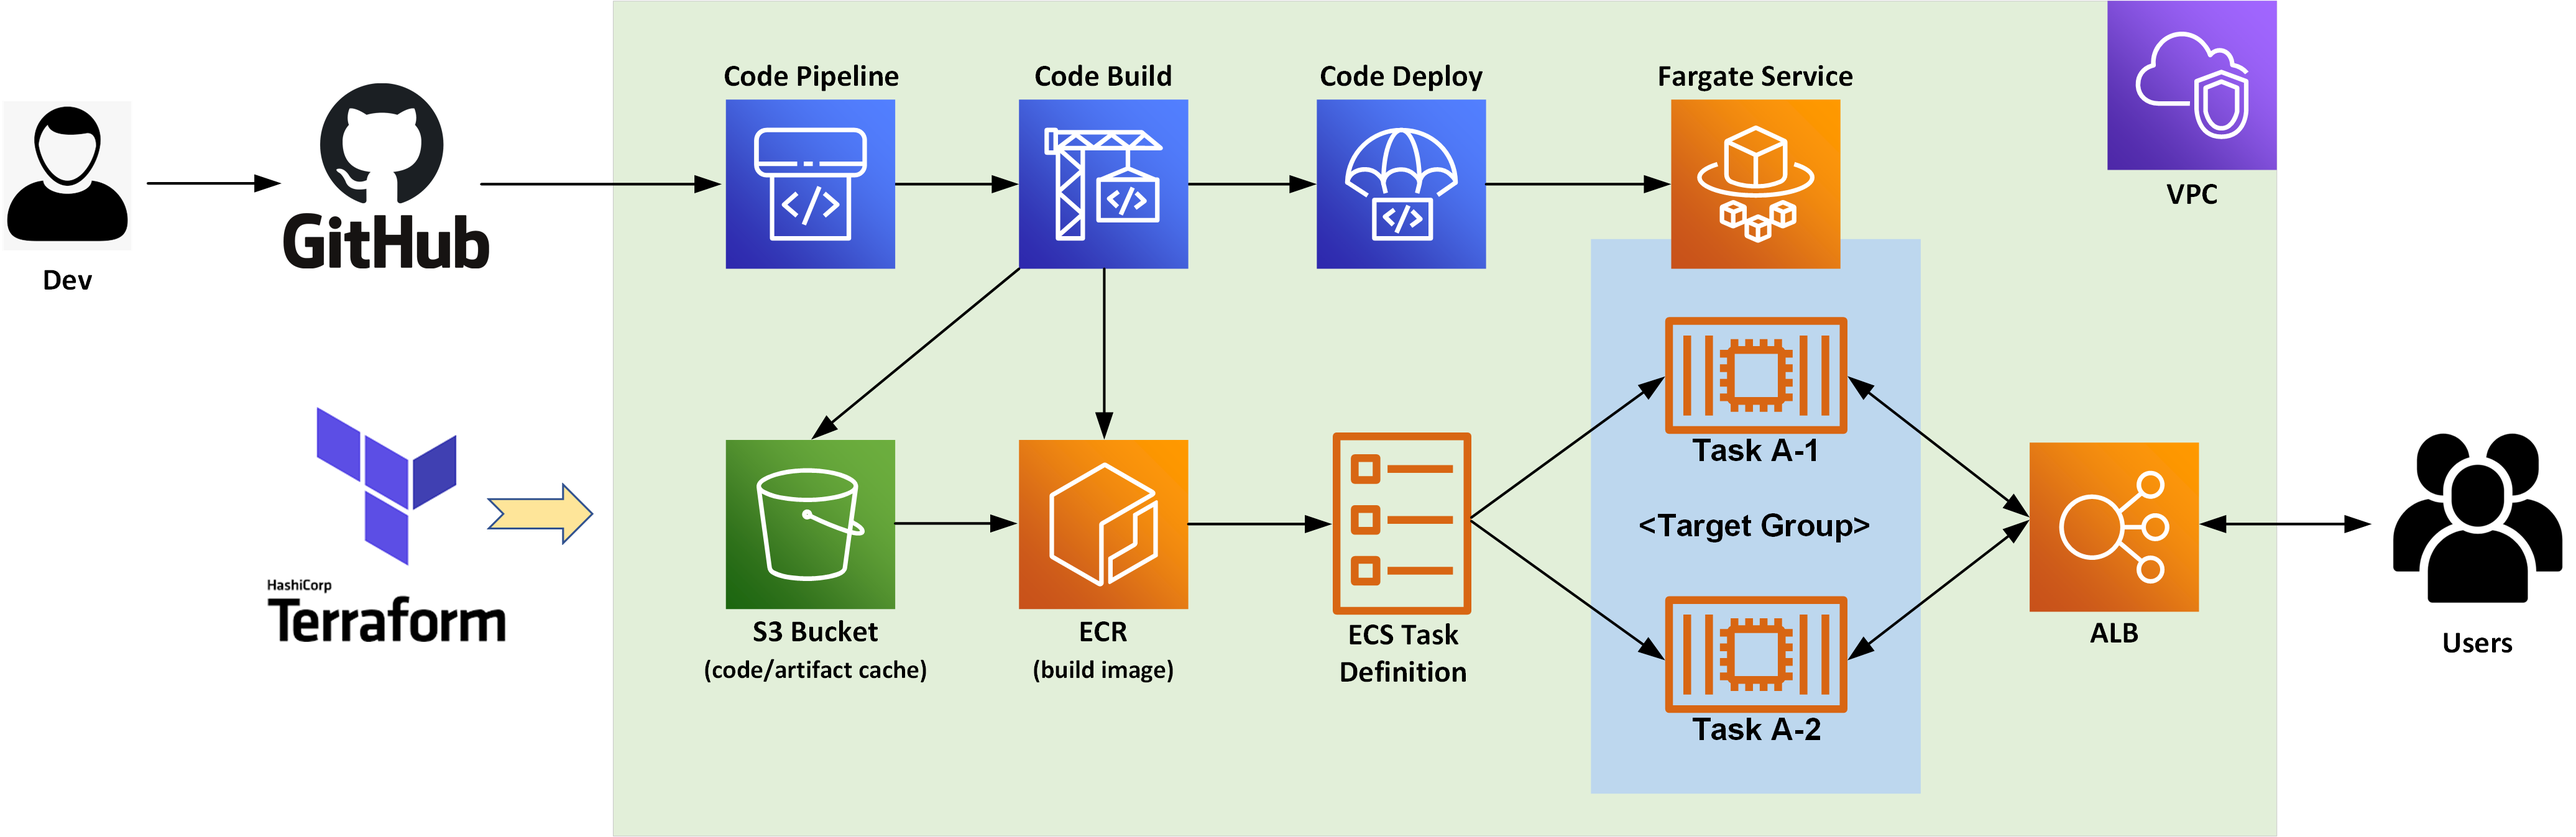
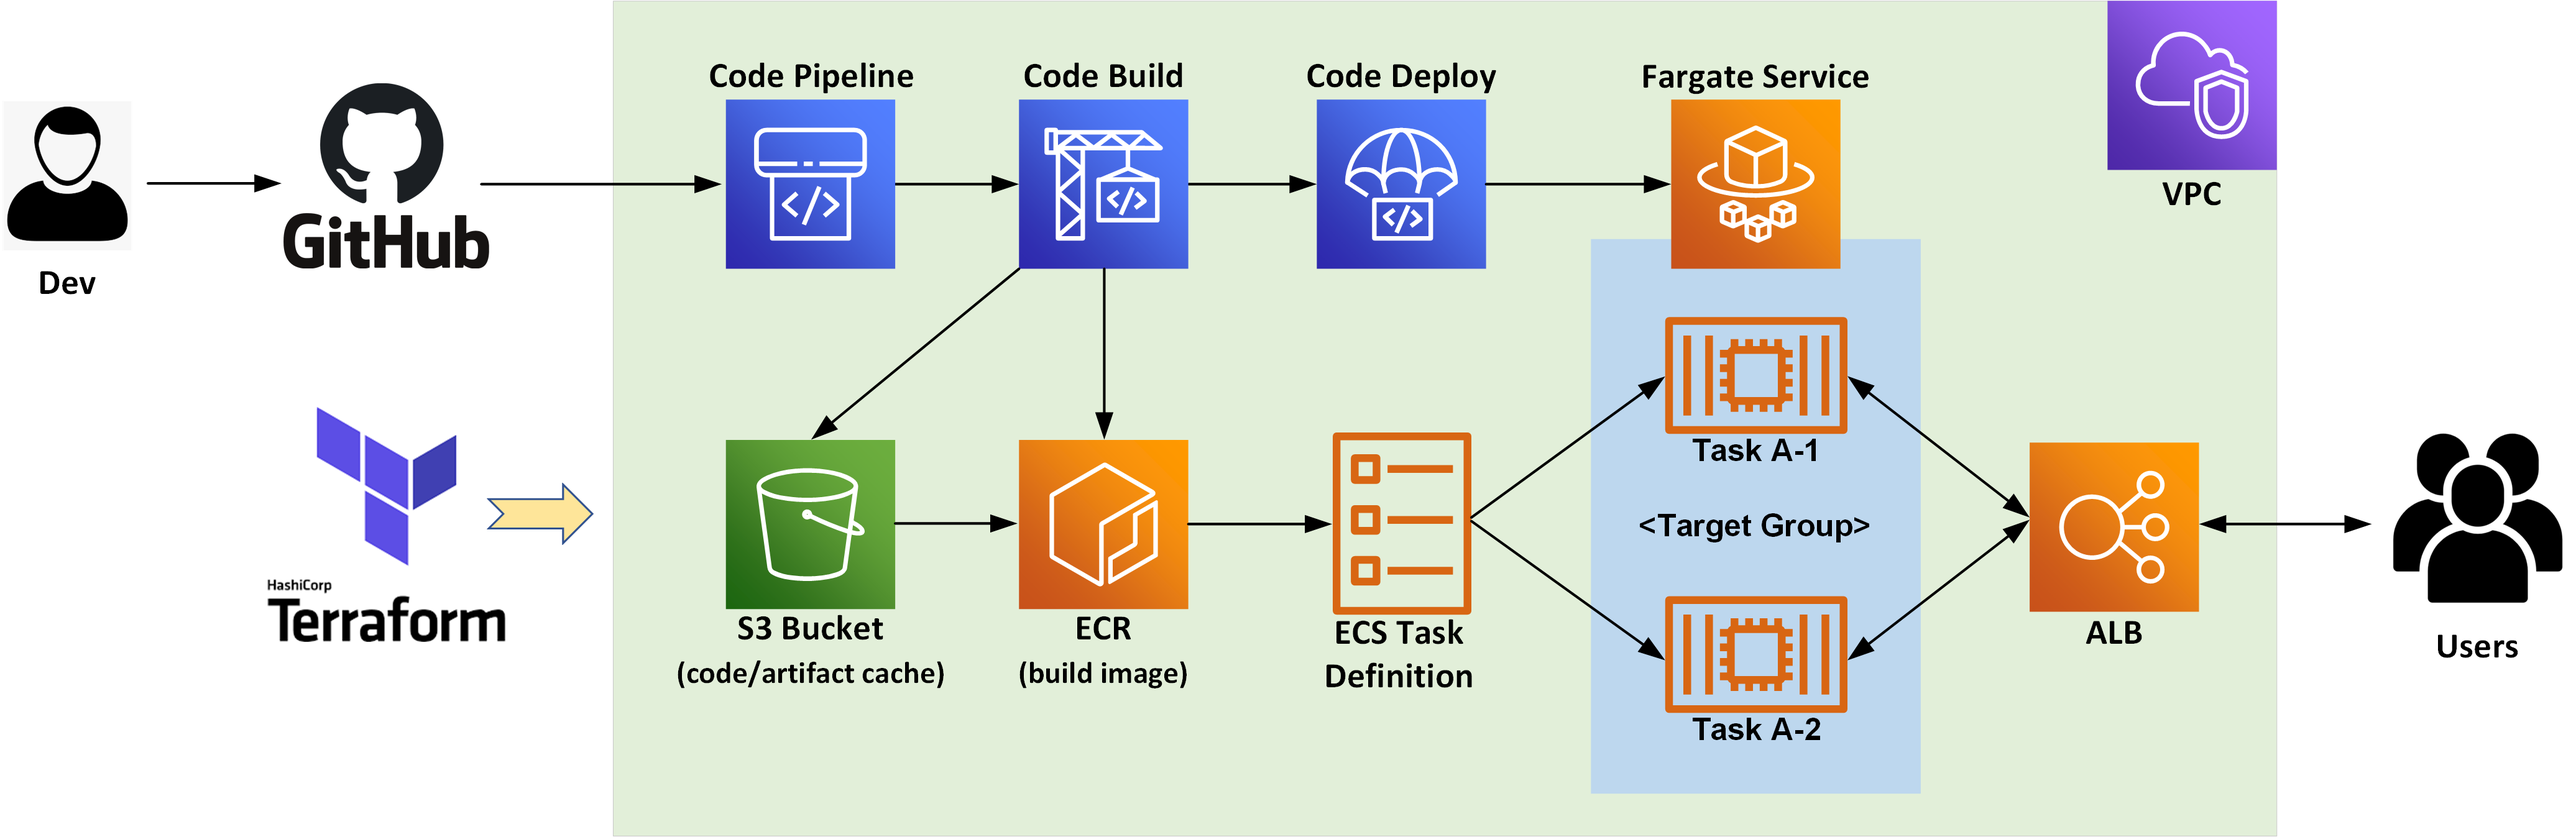
updated diagram

diff --git a/README.md b/README.md
@@ -1,6 +1,6 @@
 # tf-fargate-codepipeline
 A Terrafrom Example that deploys a Cloud Native & Serverless CI/CD envrionment with AWS ECS/Fargate Infrastructure and AWS CodePipeline leveraging GitHub webhook triggers 
-<img src="images/fargate-codepipeline1.png" width = "800">
+<img src="images/fargate-codepipeline1.png" width = "1200">
 
 ---
 
